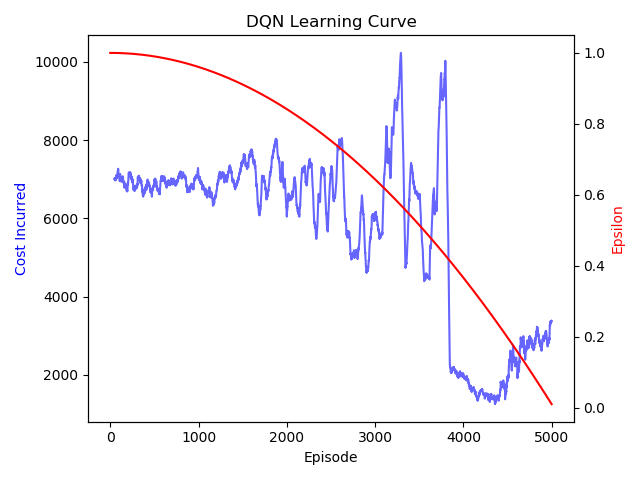
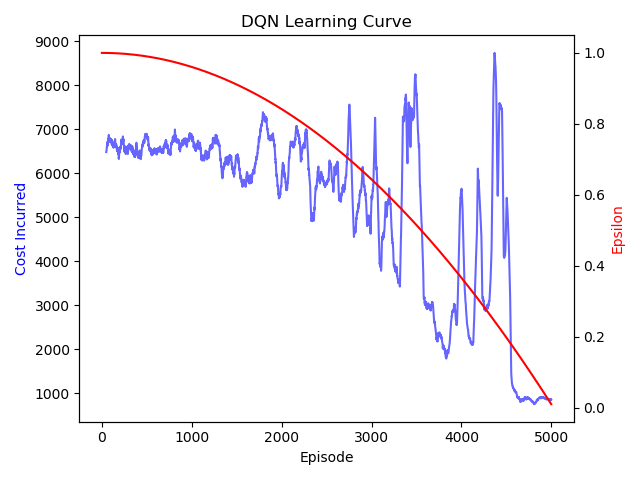
Adjusted for presentation

diff --git a/DQN_Simulator.py b/DQN_Simulator.py
@@ -49,7 +49,7 @@ myFactory = Factory(factoryDistributorTopQueue, None, None, factoryDistributorBo
 
 num_episodes = 5000
 num_actions = 30
-initial_epsilon = 0.2
+initial_epsilon = 1.0
 final_epsilon = 0.01
 agent = SupplyChainAgent.DQNAgent(gamma=0.99, epsilon=initial_epsilon, alpha=0.0005, input_dims=5,
                                   n_actions=num_actions, mem_size=1000, batch_size=52)
@@ -90,7 +90,7 @@ for i_episode in tqdm(range(num_episodes)):
         myRetailer.TakeTurn(thisWeek)
 
         # Store pre-turn state
-        state = list((thisWeek, myWholesaler.CalcEffectiveInventory(), myWholesaler.incomingOrdersQueue.data[0],
+        state = list((thisWeek, myWholesaler.currentStock, myWholesaler.incomingOrdersQueue.data[0],
                       myWholesaler.currentOrders, myWholesaler.currentPipeline))
         # Wholesaler takes turn
         pre_turn_orders = myWholesaler.currentOrders
